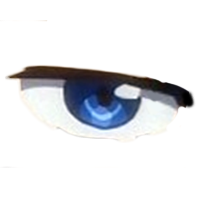
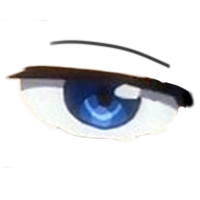
stuff

Changed region(s): [[0.24, 0.18, 0.87, 0.36]]

diff --git a/autoanime.py b/autoanime.py
@@ -45,7 +45,7 @@ def autoanime(fname):
     #hair
     mask = hair_detection.get_hair_mask(fname)
     long_hair = hair_detection.long_hair(mask,shape)
-    # hair_file = hair_detection.match_hair(mask, shape, long_hair, GENDER)
+    hair_file = hair_detection.match_hair(mask, shape, long_hair, GENDER)
 
     hair_color = hair_detection.hair_color(shape,fname)
 
@@ -68,8 +68,8 @@ def autoanime(fname):
     new_im = process_eyes(shape, orig_im, new_im)
     print "eyes done!"
 
-
-    new_im = process_eyebrows(shape, orig_im, new_im)
+    #eyebrows
+    new_im = process_eyebrows(shape, orig_im, new_im, hair_color)
     print "eyebrows done!"
 
     #add ears
@@ -105,13 +105,13 @@ def draw_forehead(im, shape, colors):
     draw.polygon(points, (int(colors[base_idx][0]),int(colors[base_idx][1]),int(colors[base_idx][2])))
     return im
 
-def process_eyebrows(shape, orig_im, new_im):
+def process_eyebrows(shape, orig_im, new_im, color):
     """wrapper for processing eyebrows"""
     left, right = find_eyebrows(shape, orig_im)
     print "found eyebrows!"
     are_they_bushy = render_big_eyebrows(left, right)
     print 'should we be drawing bushy eyebrows? ', are_they_bushy
-    new_im = draw_eyebrows(shape, new_im, are_they_bushy)
+    new_im = draw_eyebrows(shape, new_im, are_they_bushy, color)
     return new_im
 
 def process_eyes(shape, orig_im, new_im):
@@ -172,17 +172,17 @@ def color_skin(im, shape, colors):
     draw = ImageDraw.Draw(im)
 
      # neck 
-    neck_height = shape.part(4).y - shape.part(3).y +10
-    m = ((shape.part(8).y)+(shape.part(7).y-shape.part(8).y)/6- (shape.part(5).y+shape.part(6).y)/2) / float((shape.part(8).x)+(shape.part(7).x-shape.part(8).x)/6 - (shape.part(5).x + shape.part(6).x)/2)
-    b = (shape.part(5).y+shape.part(6).y)/2 - m*(shape.part(5).x + shape.part(6).x)/2
-    draw.polygon([((shape.part(6).x+shape.part(7).x)/2, m*(shape.part(6).x+shape.part(7).x)/2+b),((shape.part(6).x+shape.part(7).x)/2, m*(shape.part(6).x+shape.part(7).x)/2 + b+ neck_height),
-                  ((shape.part(9).x+shape.part(10).x)/2, m*(shape.part(6).x+shape.part(7).x)/2 + b+ neck_height), ((shape.part(9).x+shape.part(10).x)/2,shape.part(11).y)],
-                  (int(colors[base_idx][0]),int(colors[base_idx][1]),int(colors[base_idx][2])))
+    # neck_height = shape.part(4).y - shape.part(3).y +10
+    # m = ((shape.part(8).y)+(shape.part(7).y-shape.part(8).y)/6- (shape.part(5).y+shape.part(6).y)/2) / float((shape.part(8).x)+(shape.part(7).x-shape.part(8).x)/6 - (shape.part(5).x + shape.part(6).x)/2)
+    # b = (shape.part(5).y+shape.part(6).y)/2 - m*(shape.part(5).x + shape.part(6).x)/2
+    # draw.polygon([((shape.part(6).x+shape.part(7).x)/2, m*(shape.part(6).x+shape.part(7).x)/2+b),((shape.part(6).x+shape.part(7).x)/2, m*(shape.part(6).x+shape.part(7).x)/2 + b+ neck_height),
+    #               ((shape.part(9).x+shape.part(10).x)/2, m*(shape.part(6).x+shape.part(7).x)/2 + b+ neck_height), ((shape.part(9).x+shape.part(10).x)/2,shape.part(11).y)],
+    #               (int(colors[base_idx][0]),int(colors[base_idx][1]),int(colors[base_idx][2])))
 
-    # neck shadow
-    draw.polygon([((shape.part(6).x+shape.part(7).x)/2, m*(shape.part(6).x+shape.part(7).x)/2+b),((shape.part(6).x+shape.part(7).x)/2, m*(shape.part(6).x+shape.part(7).x)/2 + b+ neck_height/1.7),
-                  ((shape.part(9).x+shape.part(10).x)/2, m*(shape.part(6).x+shape.part(7).x)/2 + b+ neck_height/1.7), ((shape.part(9).x+shape.part(10).x)/2,shape.part(11).y)],  
-                (int(colors[not base_idx][0]),int(colors[not base_idx][1]),int(colors[not base_idx][2])))
+    # # neck shadow
+    # draw.polygon([((shape.part(6).x+shape.part(7).x)/2, m*(shape.part(6).x+shape.part(7).x)/2+b),((shape.part(6).x+shape.part(7).x)/2, m*(shape.part(6).x+shape.part(7).x)/2 + b+ neck_height/1.7),
+    #              ((shape.part(9).x+shape.part(10).x)/2, m*(shape.part(6).x+shape.part(7).x)/2 + b+ neck_height/1.7), ((shape.part(9).x+shape.part(10).x)/2,shape.part(11).y)],  
+    #            (int(colors[not base_idx][0]),int(colors[not base_idx][1]),int(colors[not base_idx][2])))
     # draw.polygon([((shape.part(5).x + shape.part(6).x)/2, (shape.part(5).y+shape.part(6).y)/2+neck_height/4.),
     #               ((shape.part(8).x)+(shape.part(7).x-shape.part(8).x)/6, (shape.part(8).y)+(shape.part(7).y-shape.part(8).y)/6+neck_height/4.),
     #               (shape.part(8).x, shape.part(8).y+neck_height/4.),
@@ -233,7 +233,7 @@ def color_skin(im, shape, colors):
   
     return im
 
-def draw_eyebrows(shape, im, bushy):
+def draw_eyebrows(shape, im, bushy, color):
     '''draws eyebrows'''    
     draw = ImageDraw.Draw(im)
 
@@ -250,8 +250,8 @@ def draw_eyebrows(shape, im, bushy):
            xy_left.append((l_eyebrow[i].x, l_eyebrow[i].y))
            xy_right.append((r_eyebrow[i].x, r_eyebrow[i].y))
 
-        draw.polygon(xy_left, (0,0,0), (0,0,0)) #TODO: fill (first one) is hair color
-        draw.polygon(xy_right, (0,0,0), (0,0,0))
+        draw.polygon(xy_left, (int(color[0]),int(color[1]),int(color[2])),  (int(color[0]),int(color[1]),int(color[2]))) 
+        draw.polygon(xy_right, (int(color[0]),int(color[1]),int(color[2])), (int(color[0]),int(color[1]),int(color[2])))
 
     return im
 
@@ -292,16 +292,16 @@ def draw_lineart(im, shape, colors):
     im = draw_mouth(im, shape, draw, colors)
 
     # Draw neck
-    m = ((shape.part(8).y)+(shape.part(7).y-shape.part(8).y)/6- (shape.part(5).y+shape.part(6).y)/2) / float((shape.part(8).x)+(shape.part(7).x-shape.part(8).x)/6 - (shape.part(5).x + shape.part(6).x)/2)
-    b = (shape.part(5).y+shape.part(6).y)/2 - m*(shape.part(5).x + shape.part(6).x)/2
+    # m = ((shape.part(8).y)+(shape.part(7).y-shape.part(8).y)/6- (shape.part(5).y+shape.part(6).y)/2) / float((shape.part(8).x)+(shape.part(7).x-shape.part(8).x)/6 - (shape.part(5).x + shape.part(6).x)/2)
+    # b = (shape.part(5).y+shape.part(6).y)/2 - m*(shape.part(5).x + shape.part(6).x)/2
     
-    neck_height = shape.part(4).y - shape.part(3).y + 10
-    drawLineWithStroke(s_width, draw, im, (shape.part(6).x+shape.part(7).x)/2, m*(shape.part(6).x+shape.part(7).x)/2+b, (shape.part(6).x+shape.part(7).x)/2, m*(shape.part(6).x+shape.part(7).x)/2 + b+ neck_height, (0,0,0,255))
-    y_pos = m*(shape.part(6).x+shape.part(7).x)/2 + b+ neck_height
-    m = ((shape.part(8).y)+(shape.part(9).y-shape.part(8).y)/6- (shape.part(11).y+shape.part(10).y)/2) / float((shape.part(8).x)+(shape.part(9).x-shape.part(8).x)/6 - (shape.part(11).x + shape.part(10).x)/2)
-    b = (shape.part(11).y+shape.part(10).y)/2 - m*(shape.part(11).x + shape.part(10).x)/2
+    # neck_height = shape.part(4).y - shape.part(3).y + 10
+    # drawLineWithStroke(s_width, draw, im, (shape.part(6).x+shape.part(7).x)/2, m*(shape.part(6).x+shape.part(7).x)/2+b, (shape.part(6).x+shape.part(7).x)/2, m*(shape.part(6).x+shape.part(7).x)/2 + b+ neck_height, (0,0,0,255))
+    # y_pos = m*(shape.part(6).x+shape.part(7).x)/2 + b+ neck_height
+    # m = ((shape.part(8).y)+(shape.part(9).y-shape.part(8).y)/6- (shape.part(11).y+shape.part(10).y)/2) / float((shape.part(8).x)+(shape.part(9).x-shape.part(8).x)/6 - (shape.part(11).x + shape.part(10).x)/2)
+    # b = (shape.part(11).y+shape.part(10).y)/2 - m*(shape.part(11).x + shape.part(10).x)/2
 
-    drawLineWithStroke(s_width, draw, im, (shape.part(9).x+shape.part(10).x)/2, m*(shape.part(9).x+shape.part(10).x)/2+b, (shape.part(9).x+shape.part(10).x)/2, y_pos, (0,0,0,255))
+    # drawLineWithStroke(s_width, draw, im, (shape.part(9).x+shape.part(10).x)/2, m*(shape.part(9).x+shape.part(10).x)/2+b, (shape.part(9).x+shape.part(10).x)/2, y_pos, (0,0,0,255))
   
     # drawLine(draw, im, (shape.part(6).x+shape.part(7).x)/2, (shape.part(6).y+shape.part(7).y)/2, (shape.part(6).x+shape.part(7).x)/2, (shape.part(6).y+shape.part(7).y)/2 + neck_height, (0,0,0,255))
     # drawLine(draw, im, (shape.part(10).x+shape.part(9).x)/2, (shape.part(10).y+shape.part(9).y)/2, (shape.part(10).x+shape.part(9).x)/2, (shape.part(10).y+shape.part(9).y)/2 + neck_height, (0,0,0,255))
@@ -807,7 +807,7 @@ def shift_hue(arr, hout):
     arr = np.dstack((r, g, b, a))
     return arr
 
-def colorize(image, hue):
+def colorize(image, hue, saturation):
     """
     Colorize PIL image `original` with the given
     `hue` (hue within 0-360); returns another PIL image.

diff --git a/hair_detection.py b/hair_detection.py
@@ -80,6 +80,7 @@ def draw_hair(shapes,hair_file,im, angle, color):
         print 'hair turned to black'
     else:
         color_hsv = colorsys.rgb_to_hsv(color[0], color[1], color[2])
+        print 'hair hsv is ', color_hsv
         hue = color_hsv[0] * 360
         hair_im = autoanime.colorize(hair_im, hue)
         print 'colorized hair to hue ', hue
